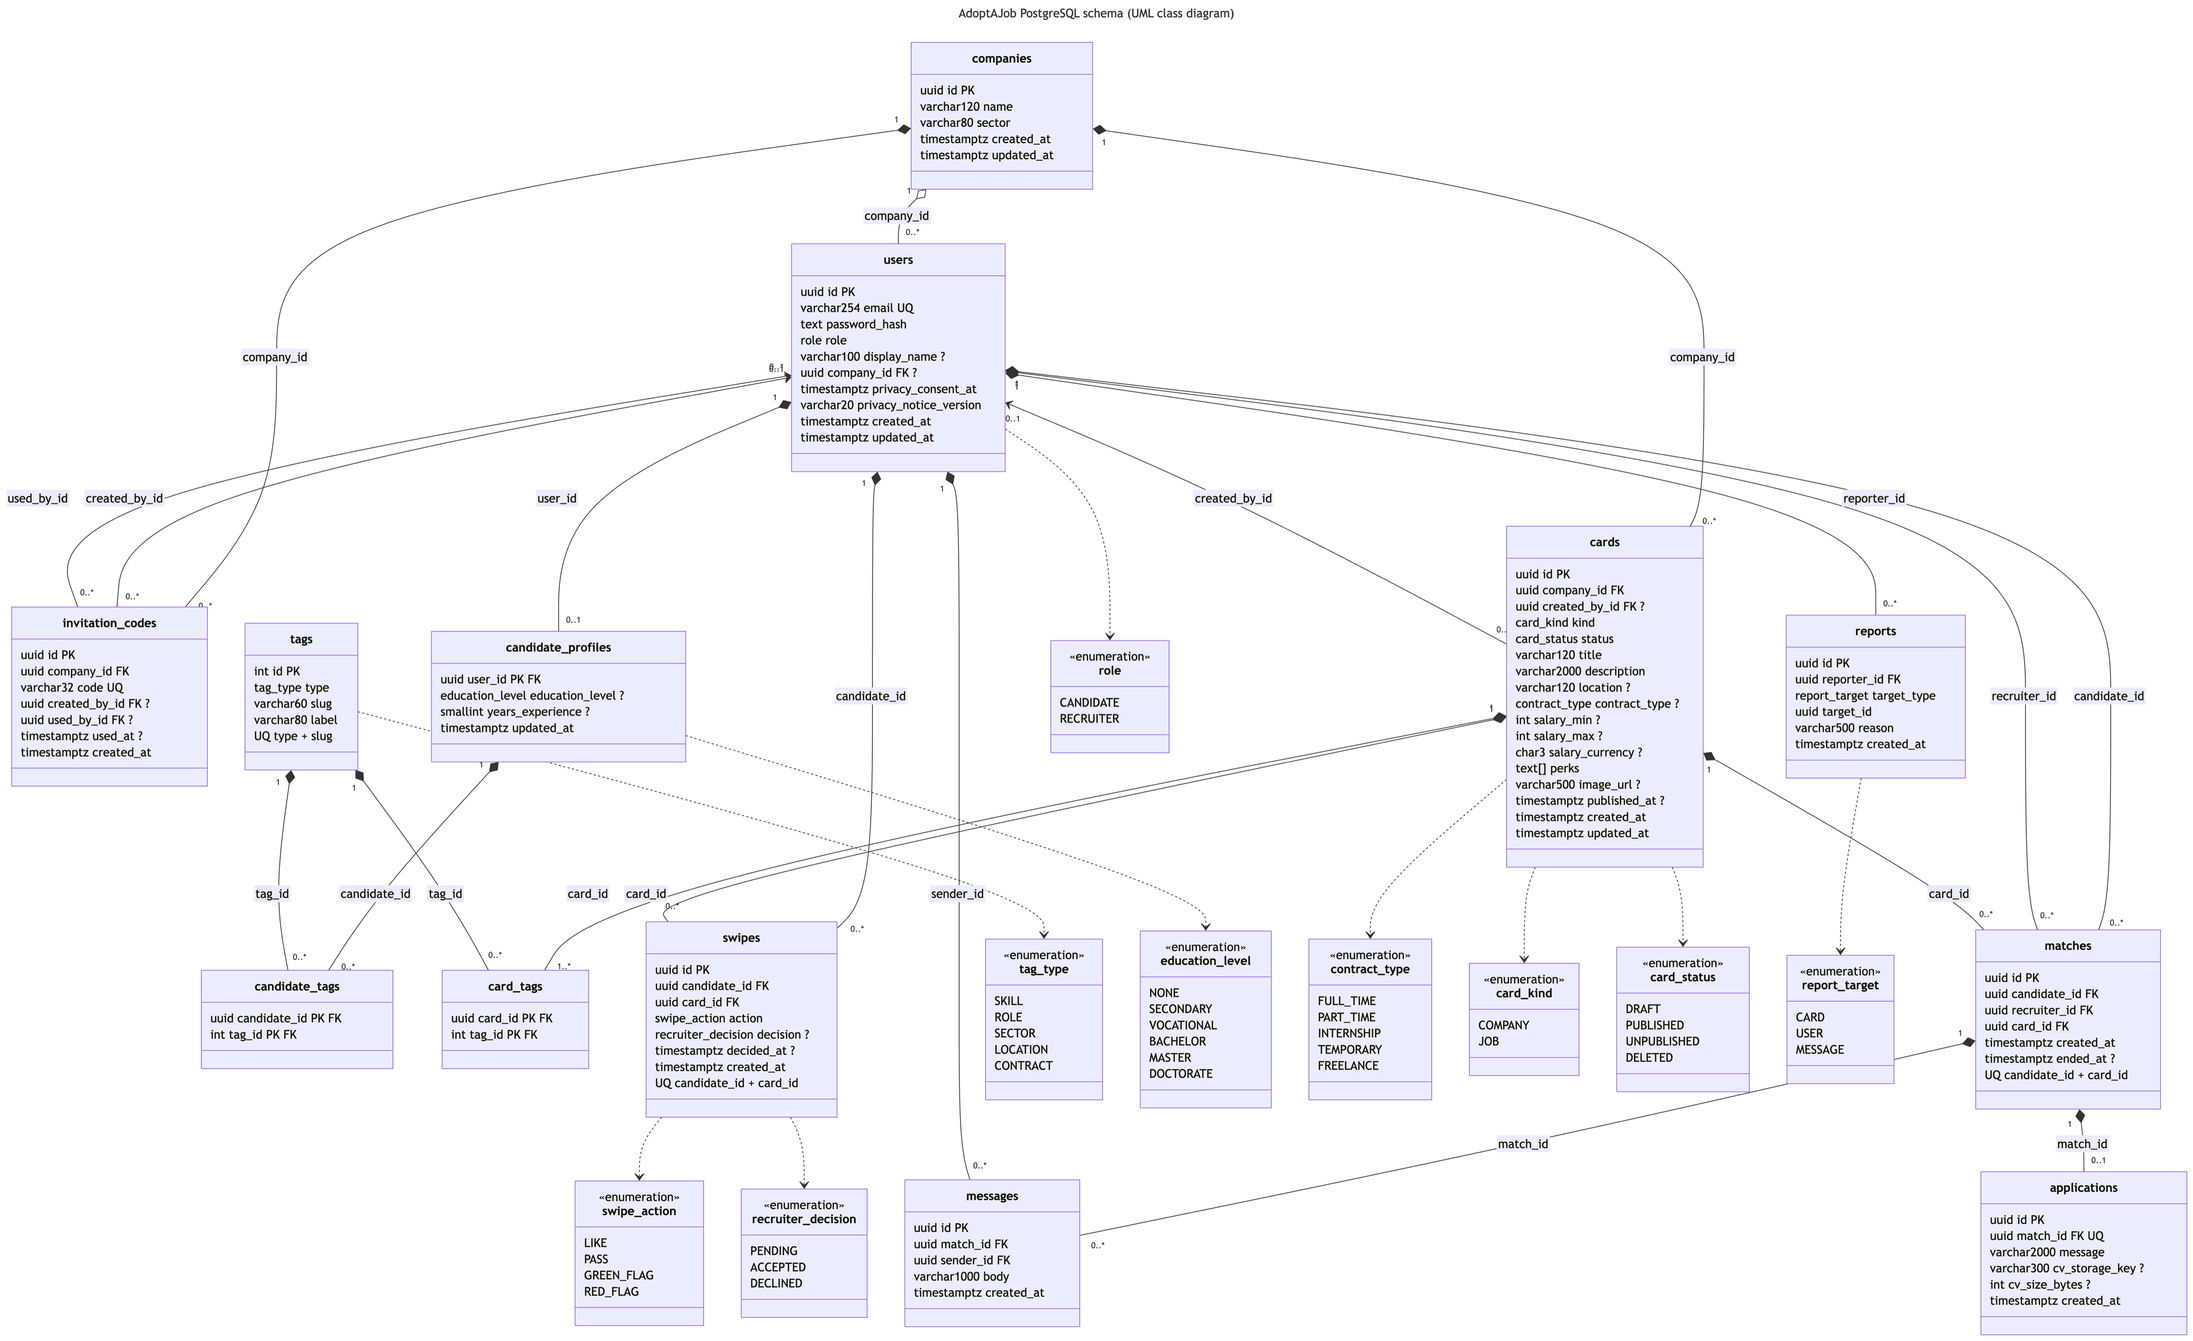
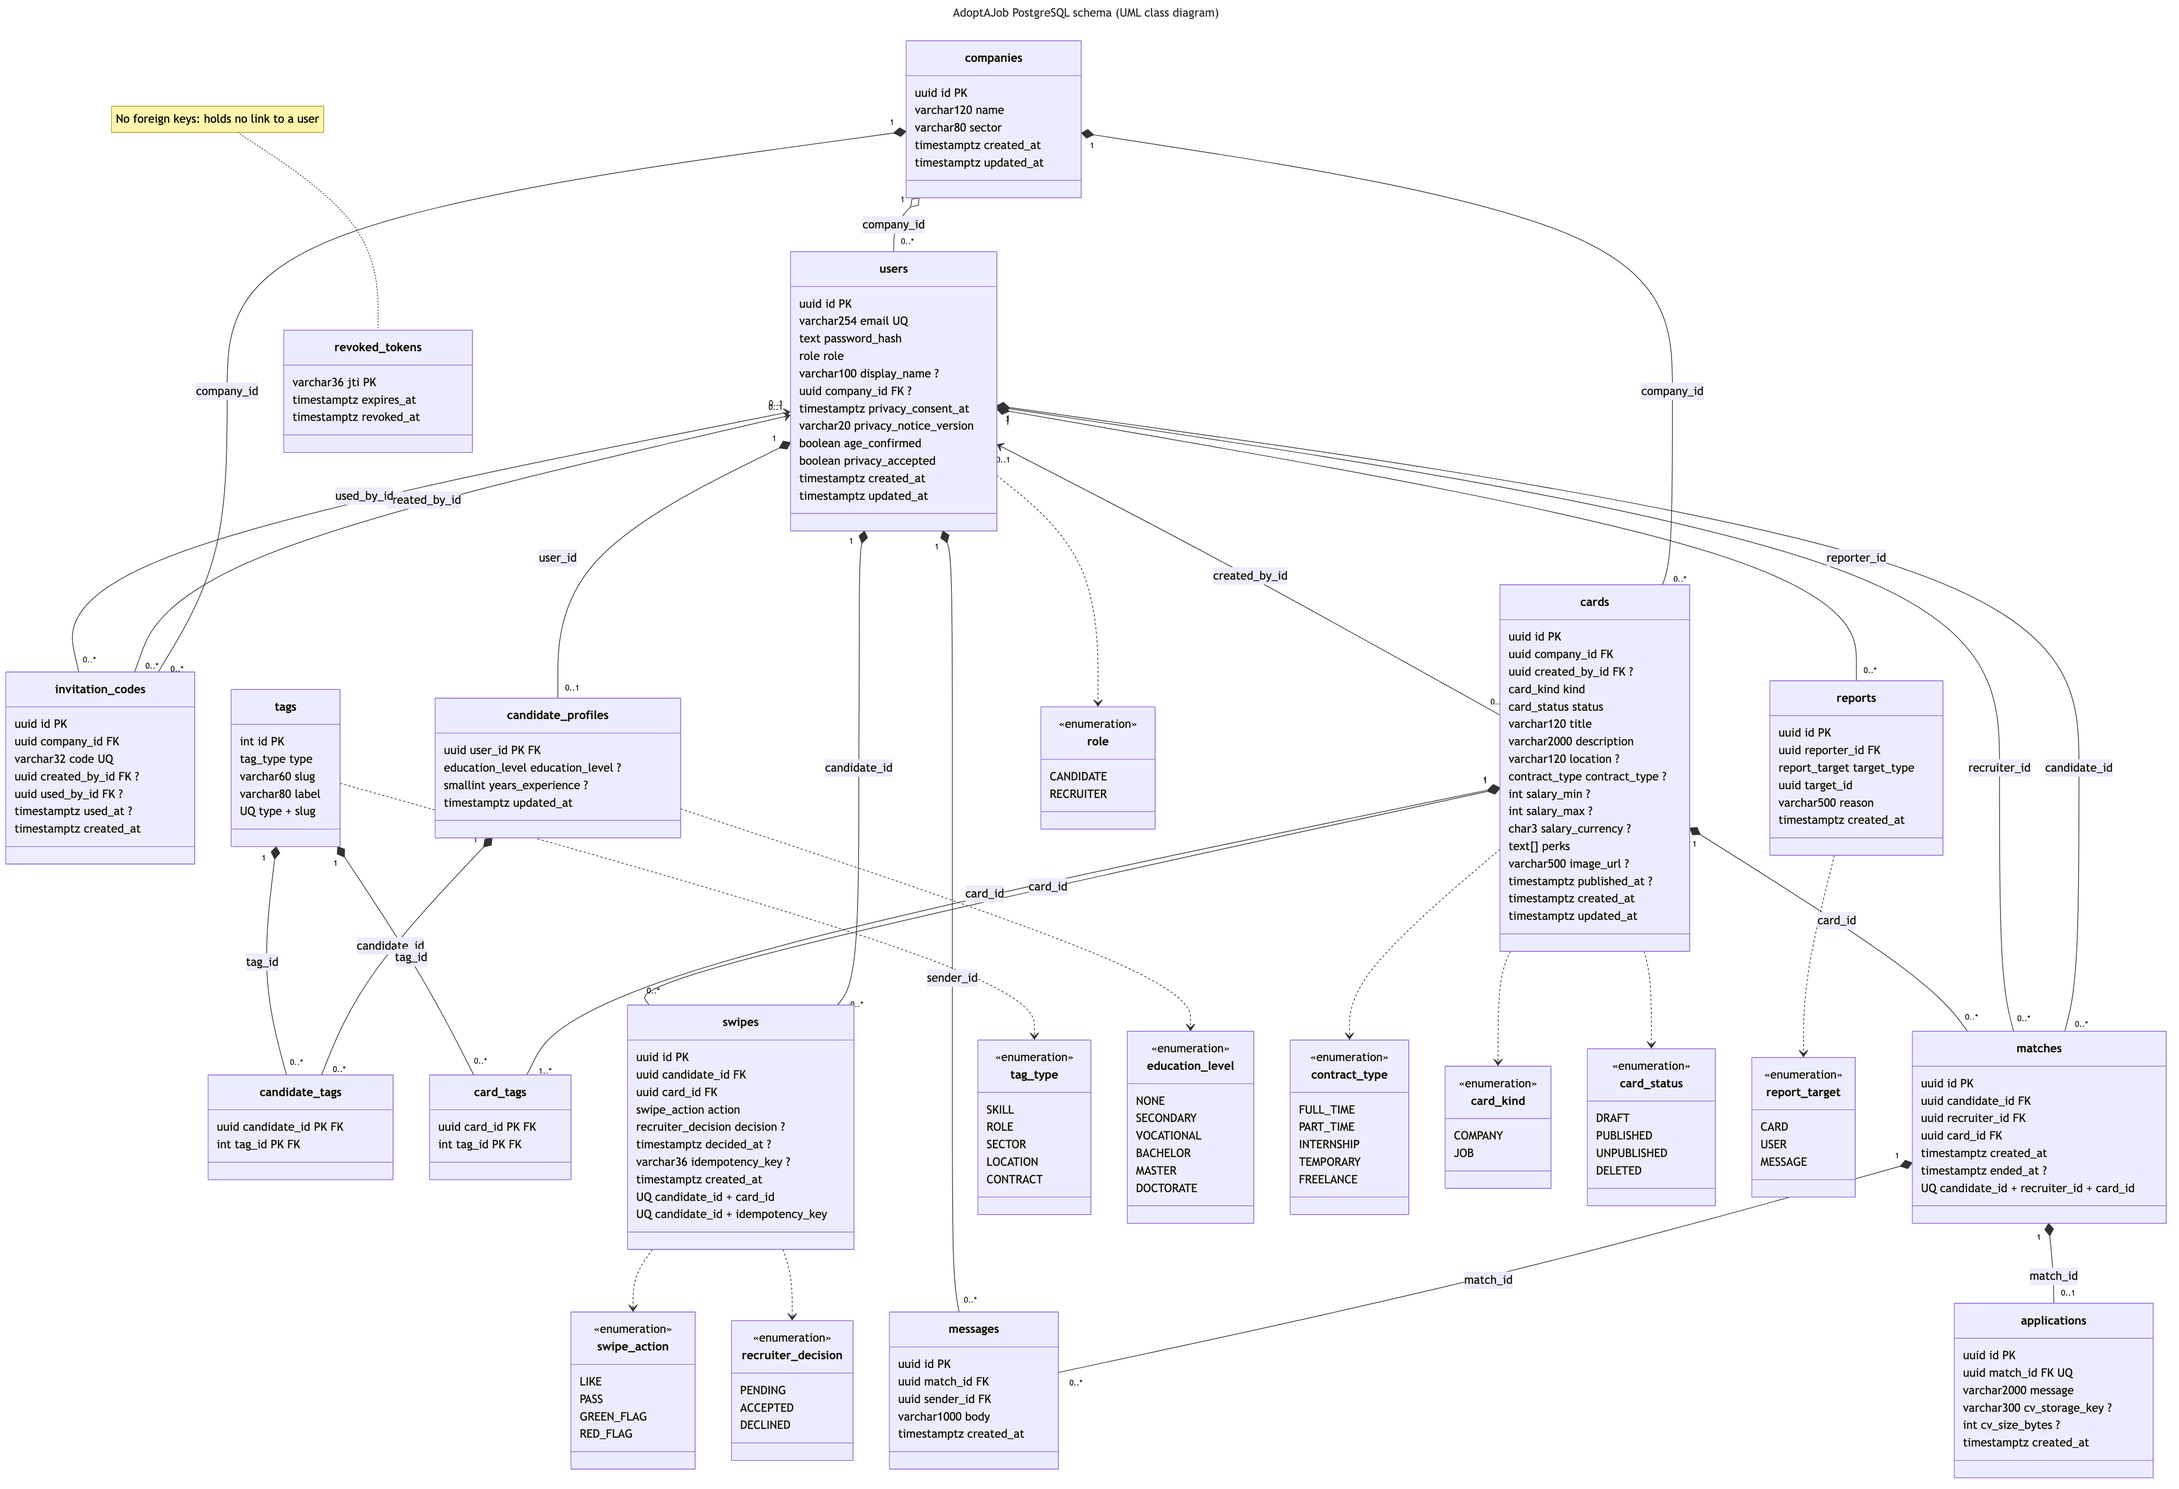
W10 - Database design v0.5; align with the match-per-recruiter migration

diff --git a/docs/design/database.md b/docs/design/database.md
@@ -1,10 +1,10 @@
 # Database Design
 ## For AdoptAJob
 
-Version 0.4  
+Version 0.5  
 Prepared by Alba (Qiu Runxiao), database owner  
 Software Engineering course, Team A (repository `bhsei/26A`)  
-2026-11-18
+2026-11-24
 
 ## Table of Contents
 <!-- TOC -->
@@ -27,17 +27,18 @@ Software Engineering course, Team A (repository `bhsei/26A`)
 | Alba (Qiu Runxiao) | 2026-11-10 | Align with SRS v0.8 for the MVP: flags become swipe actions, Company Card likes carry no decision, Job Card fields enforced, invitation codes added, cards soft-deleted, only recruiters belong to a company | 0.2 |
 | Alba (Qiu Runxiao) | 2026-11-11 | Open issues: closed 3 and 6; recorded the decisions on 8 (deleted accounts in matches), 10 (18+ confirmation) and the schema part of 11 (one match per accepting recruiter) | 0.3 |
 | Alba (Qiu Runxiao) | 2026-11-18 | Neo4j graph store aligned with SRS v1.0 (REQ-ML-008): deletion step before every rebuild, rebuild without wiping, count reconciliation, deleted cards and company sector not copied, card kind added | 0.4 |
+| Alba (Qiu Runxiao) | 2026-11-24 | Document migration `20261121180737_match_per_recruiter` (Jean-Baptiste): one match per accepting recruiter, `users.age_confirmed` and `users.privacy_accepted`, idempotent swipes, `revoked_tokens` table for sign-out; open issues 7, 10 and 11 updated; architecture reference moved to the SAD | 0.5 |
 
 ## 1. Purpose and Scope
 
 This document describes how AdoptAJob stores its data and why. It covers the
-PostgreSQL schema that is implemented (migrations `20261016045740_init` and
-`20261110042731_mvp_schema_alignment`) and the Neo4j graph store the team has
-agreed to add.
+PostgreSQL schema that is implemented (migrations `20261016045740_init`,
+`20261110042731_mvp_schema_alignment` and `20261121180737_match_per_recruiter`)
+and the Neo4j graph store the team has agreed to add.
 
-It complements the [architecture document](Architecture_Design.md), section
-6.2, which asks for tables, indexes, constraints and relationships to be
-documented alongside the schema. The schema itself is code and lives in
+It complements the [Software Architecture Document](SAD.md), section 3.4
+(Data View), which describes data authority and access boundaries between the
+services. The schema itself is code and lives in
 [`src/backend/prisma/schema.prisma`](../../src/backend/prisma/schema.prisma);
 the SQL that creates it is in
 [`src/backend/prisma/migrations/`](../../src/backend/prisma/migrations/).
@@ -78,7 +79,7 @@ arrows point to the enumeration a column uses.
 
 | Table | Purpose | Key fields | SRS |
 |-------|---------|------------|-----|
-| `users` | Candidates and recruiters | `email` (unique), `password_hash`, `role`, `company_id`, `privacy_consent_at`, `privacy_notice_version` | REQ-FUNC-001..004, REQ-SEC-001, REQ-COMP-001 |
+| `users` | Candidates and recruiters | `email` (unique), `password_hash`, `role`, `company_id`, `privacy_consent_at`, `privacy_notice_version`, `age_confirmed`, `privacy_accepted` | REQ-FUNC-001..004, REQ-SEC-001, REQ-COMP-001 |
 | `companies` | Company shared by one or more recruiters | `name`, `sector` | REQ-FUNC-003, REQ-ML-002 |
 | `invitation_codes` | Single-use codes to join an existing company | `company_id`, `code` (unique), `created_by_id`, `used_by_id`, `used_at` | REQ-FUNC-025 |
 | `candidate_profiles` | Optional candidate background | `education_level`, `years_experience` (all nullable) | REQ-FUNC-005..006 |
@@ -86,11 +87,12 @@ arrows point to the enumeration a column uses.
 | `card_tags` | Tags of a card | `card_id`, `tag_id` | REQ-FUNC-008, REQ-ML-001 |
 | `candidate_tags` | Desired roles, skills, locations and contract types of a candidate | `candidate_id`, `tag_id` | REQ-FUNC-005, REQ-ML-001 |
 | `cards` | Company and job cards | `kind`, `status` (draft, published, unpublished, deleted), `title`, `description`, `location`, `contract_type`, salary range, `perks`, `image_url`, `published_at` | REQ-FUNC-008..011 |
-| `swipes` | One action per candidate and card (like, pass, green flag or red flag); likes on Job Cards carry the recruiter decision | `action`, `decision` (pending, accepted, declined), `decided_at` | REQ-FUNC-011..017, REQ-REL-001, REQ-ML-003..004 |
-| `matches` | Accepted likes | `candidate_id`, `recruiter_id`, `card_id`, `ended_at` | REQ-FUNC-017..019, REQ-FUNC-022, REQ-ML-006 |
+| `swipes` | One action per candidate and card (like, pass, green flag or red flag); likes on Job Cards carry the recruiter decision | `action`, `decision` (pending, accepted, declined), `decided_at`, `idempotency_key` | REQ-FUNC-011..017, REQ-REL-001, REQ-ML-003..004 |
+| `matches` | Accepted likes, one per accepting recruiter | `candidate_id`, `recruiter_id`, `card_id`, `ended_at` | REQ-FUNC-017..019, REQ-FUNC-022, REQ-ML-006 |
 | `messages` | Chat messages inside a match | `body` (max 1,000 characters) | REQ-FUNC-020 |
 | `applications` | Application message and CV reference | `message`, `cv_storage_key`, `cv_size_bytes` | REQ-FUNC-021 |
 | `reports` | User reports for moderation | `target_type`, `target_id`, `reason` | REQ-FUNC-023 |
+| `revoked_tokens` | Access tokens revoked at sign-out, kept until they expire | `jti` (primary key, the token's UUID), `expires_at`, `revoked_at` | REQ-SEC-002 |
 
 ### 3.2 Modelling decisions
 
@@ -104,6 +106,9 @@ arrows point to the enumeration a column uses.
 | Any swipe removes the card from the feed, flags included. | REQ-FUNC-011, REQ-FUNC-014 and REQ-FUNC-015. |
 | Only likes on Job Cards carry a recruiter decision. | REQ-FUNC-012: a like on a Company Card is a ranking signal only and adds the candidate to no interested-candidates list. The backend sets `PENDING` from the card kind; a `CHECK` only guarantees that passes and flags never carry a decision, because a `CHECK` cannot read the card's kind. |
 | A match is created only by a recruiter accepting a like. | REQ-ML-006: the final decision is always the recruiter's. |
+| Several recruiters of the same company can each match the same candidate on the same Job Card. | REQ-FUNC-017: each accepting recruiter gets their own match and chat. The recruiter decision itself is still one per swipe (open issue 11). |
+| A swipe request carries a client-generated `Idempotency-Key` (UUID v4) stored in `swipes.idempotency_key`. | REQ-REL-001: if the app retries a request, the backend finds the existing row by `(candidate_id, idempotency_key)` and returns it instead of failing or creating a second swipe. The column is nullable so rows created by the seed and older code stay valid. |
+| Sign-out stores the token's `jti` in `revoked_tokens`; the backend rejects any token whose `jti` is there. | REQ-SEC-002. Access tokens are stateless JWTs, so a short denylist is the smallest change that invalidates one token. A row is only useful until `expires_at`, which is indexed for cleanup. The table has no foreign key to `users`, so it holds no personal data. |
 | `reports.target_id` has no foreign key. | A report must survive the deletion of the card, user or message it points to. |
 | CV files are stored outside the database. | Only the storage key and size are kept; large binary files do not belong in PostgreSQL. |
 | Primary keys are UUIDs generated by PostgreSQL (`gen_random_uuid()`), except `tags` (integer). | IDs cannot be guessed from the API, and rows inserted with plain SQL (seed, tests) get IDs too. Tags are a small internal list. |
@@ -117,7 +122,8 @@ migration.
 | Rule | Constraint | SRS |
 |------|------------|-----|
 | One swipe (like, pass or flag) per candidate and card; a retried request does not create a second row | `UNIQUE (candidate_id, card_id)` on `swipes` | REQ-FUNC-011, REQ-REL-001 |
-| One match per candidate and card | `UNIQUE (candidate_id, card_id)` on `matches` | REQ-FUNC-017 |
+| A retried swipe request with the same idempotency key returns the original swipe | `UNIQUE (candidate_id, idempotency_key)` on `swipes` (several `NULL` keys are allowed) | REQ-REL-001 |
+| One match per candidate, recruiter and card | `UNIQUE (candidate_id, recruiter_id, card_id)` on `matches` | REQ-FUNC-017 |
 | One application per match | `UNIQUE (match_id)` on `applications` | REQ-FUNC-021 |
 | Only likes carry a decision; passes and flags never do | `swipes_decision_check` | REQ-FUNC-012, REQ-FUNC-017 |
 | A decision time needs a decision | `swipes_decided_at_check` | REQ-FUNC-017 |
@@ -132,7 +138,10 @@ migration.
 
 Rules that need other tables are validated by the backend: every card has at
 least one tag, and a like gets a `PENDING` decision only when the card is a Job
-Card.
+Card. Registration is refused unless the request confirms both the 18+ age
+check and the privacy notice; the backend then stores `age_confirmed` and
+`privacy_accepted` as `true`. The database defaults both to `false` and has no
+`CHECK` that they are `true`.
 
 ## 5. Indexes
 
@@ -140,13 +149,17 @@ Card.
 |-------|---------|-----|
 | `cards (status, published_at DESC)` | Published cards for the feed; most-recent fallback and cold start | REQ-FUNC-011, REQ-REL-002, REQ-ML-002 |
 | `swipes (candidate_id, card_id)` (unique) | Excluding cards a candidate already swiped | REQ-FUNC-011 |
+| `swipes (candidate_id, idempotency_key)` (unique) | Finding the swipe of a retried request | REQ-REL-001 |
 | `swipes (card_id, action, decision)` | Interested-candidates list per card; flag signals for ranking | REQ-FUNC-016, REQ-ML-003..004 |
 | `invitation_codes (code)` (unique), `invitation_codes (company_id)` | Looking up a code; listing a company's codes | REQ-FUNC-025 |
 | `card_tags (tag_id)`, `candidate_tags (tag_id)` | Finding cards that share tags | REQ-ML-001 |
+| `matches (candidate_id, recruiter_id, card_id)` (unique) | One match per accepting recruiter | REQ-FUNC-017 |
 | `matches (recruiter_id, created_at DESC)`, `matches (candidate_id, created_at DESC)` | Matches list, most recent first | REQ-FUNC-019 |
 | `messages (match_id, created_at)` | Loading a chat in order | REQ-FUNC-020 |
 | `users (company_id)`, `cards (company_id)` | Company members and cards | REQ-FUNC-003, REQ-SEC-003 |
 | `reports (target_type, target_id)` | Finding reports about one target | REQ-FUNC-023 |
+| `revoked_tokens (jti)` (primary key) | Checking whether a token was revoked, on every authenticated request | REQ-SEC-002 |
+| `revoked_tokens (expires_at)` | Removing expired rows (no cleanup job exists yet, open issue 7) | REQ-SEC-002 |
 
 ## 6. Privacy and Deletion
 
@@ -158,7 +171,10 @@ Card.
 - **Passwords** are stored only as adaptive hashes (`password_hash`,
   REQ-SEC-001); hashing is done by the backend.
 - **Consent** is recorded with a timestamp and the privacy-notice version
-  (REQ-COMP-001).
+  (REQ-COMP-001), plus the `privacy_accepted` flag. The 18+ confirmation is
+  stored as `age_confirmed` (REQ-FUNC-001).
+- **Sign-out** (REQ-SEC-002) stores only the token's random `jti` and expiry
+  in `revoked_tokens`, with no link to the user.
 - **Synthetic data only** in development, tests and the repository
   (REQ-ML-005). No real personal data is committed.
 - **Neo4j** stores only the minimized identifiers, tags, status, publish date,
@@ -288,9 +304,9 @@ To change the schema:
 | 4 | Implement the Neo4j pipeline, including freshness, retry, idempotency and deletion checks. | Alba, Levis | Open |
 | 5 | Load synthetic seed data with overlapping candidate likes so graph ranking has patterns to find. | Alba, Nils | In progress: `npm run db:seed` creates shared likes from matching backgrounds; Nils to confirm they are enough for REQ-ML-007. |
 | 6 | Confirm the GDPR retention and deletion policy for both stores. | Team | Closed (2026-11-11): duplicate of SRS Appendix B issue 1, closed by REQ-FUNC-004 (24 h deletion), REQ-COMP-001 (retention periods) and REQ-ML-008. |
-| 7 | Decide how sign-out and account deletion invalidate tokens (REQ-SEC-002); a `users.tokens_valid_after` column is proposed. | Alba, Jean-Baptiste | Open |
+| 7 | Decide how sign-out and account deletion invalidate tokens (REQ-SEC-002); a `users.tokens_valid_after` column is proposed. | Alba, Jean-Baptiste | Partly done (2026-11-21): sign-out is implemented with the `revoked_tokens` denylist (migration `20261121180737_match_per_recruiter`). Still open: invalidating all of a user's tokens on account deletion, and a job that removes rows past `expires_at` (nothing deletes them yet, so the table only grows). |
 | 8 | Keep matches visible as "Account deleted" for the other party (REQ-FUNC-004). Related: SRS open issues 6 (what remains of a deleted account) and 11 (Iteration 1 criteria). | Alba, Jean-Baptiste | Decided (2026-11-11), migration pending: `matches.candidate_id` and `matches.recruiter_id` become nullable with `ON DELETE SET NULL`; a `CHECK` keeps at least one of them set, and the backend removes a match when both parties are deleted. The app shows "Account deleted" when the other party's column is `NULL`, so no identifier of the deleted user remains. The deleted user's messages still cascade through `messages.sender_id`. Because `applications` hang off the match and would no longer cascade, the deletion transaction removes the deleted candidate's applications and CV files explicitly. Proposed to the team as the answer to SRS issue 6. |
 | 9 | Record inactivity for the 12-month retention rule (REQ-COMP-001), e.g. `users.last_active_at`. | Alba, Jean-Baptiste | Open |
-| 10 | Record the 18+ confirmation given at registration (REQ-FUNC-001). | Alba, Jean-Baptiste | Decided (2026-11-11), migration pending: `users.adult_confirmed_at timestamptz NOT NULL`, set by the backend at registration, following the `privacy_consent_at` pattern. Iteration 1. |
-| 11 | Allow one match per accepting recruiter (REQ-FUNC-017). The SRS must also say how a second recruiter can accept a candidate that REQ-FUNC-016 already removed from the interested list. Iteration 2. | Alba, Jean-Baptiste | Schema decided (2026-11-11), migration pending: `matches` gets `UNIQUE (candidate_id, card_id, recruiter_id)`, and recruiter decisions move from `swipes.decision`/`decided_at` to a new `recruiter_decisions` table (`swipe_id`, `recruiter_id`, `decision`, `decided_at`, `UNIQUE (swipe_id, recruiter_id)`), because one decision per swipe allows only one decision per company. The interested-list rule (REQ-FUNC-016) stays open as a team question in the SRS. |
+| 10 | Record the 18+ confirmation given at registration (REQ-FUNC-001). | Alba, Jean-Baptiste | Implemented differently (2026-11-21): migration `20261121180737_match_per_recruiter` adds `users.age_confirmed boolean NOT NULL DEFAULT false` (and `privacy_accepted`), not the decided `adult_confirmed_at timestamptz NOT NULL`. The flag records that the user confirmed but not when; `users.created_at` gives the same time for now, because the backend refuses registration without the confirmation. To confirm with Jean-Baptiste whether the boolean is enough or a timestamp is still needed. |
+| 11 | Allow one match per accepting recruiter (REQ-FUNC-017). The SRS must also say how a second recruiter can accept a candidate that REQ-FUNC-016 already removed from the interested list. Iteration 2. | Alba, Jean-Baptiste | Partly done (2026-11-21): migration `20261121180737_match_per_recruiter` replaces `UNIQUE (candidate_id, card_id)` on `matches` with `UNIQUE (candidate_id, recruiter_id, card_id)`. Still pending from the 2026-11-11 decision: recruiter decisions move from `swipes.decision`/`decided_at` to a new `recruiter_decisions` table (`swipe_id`, `recruiter_id`, `decision`, `decided_at`, `UNIQUE (swipe_id, recruiter_id)`), because one decision per swipe allows only one decision per company. The interested-list rule (REQ-FUNC-016) stays open as a team question in the SRS. |
 | 12 | Store what each user has already seen, so the app can show match and like indicators (REQ-FUNC-018, REQ-FUNC-024). Iteration 2. | Alba, Jean-Baptiste | Open |
